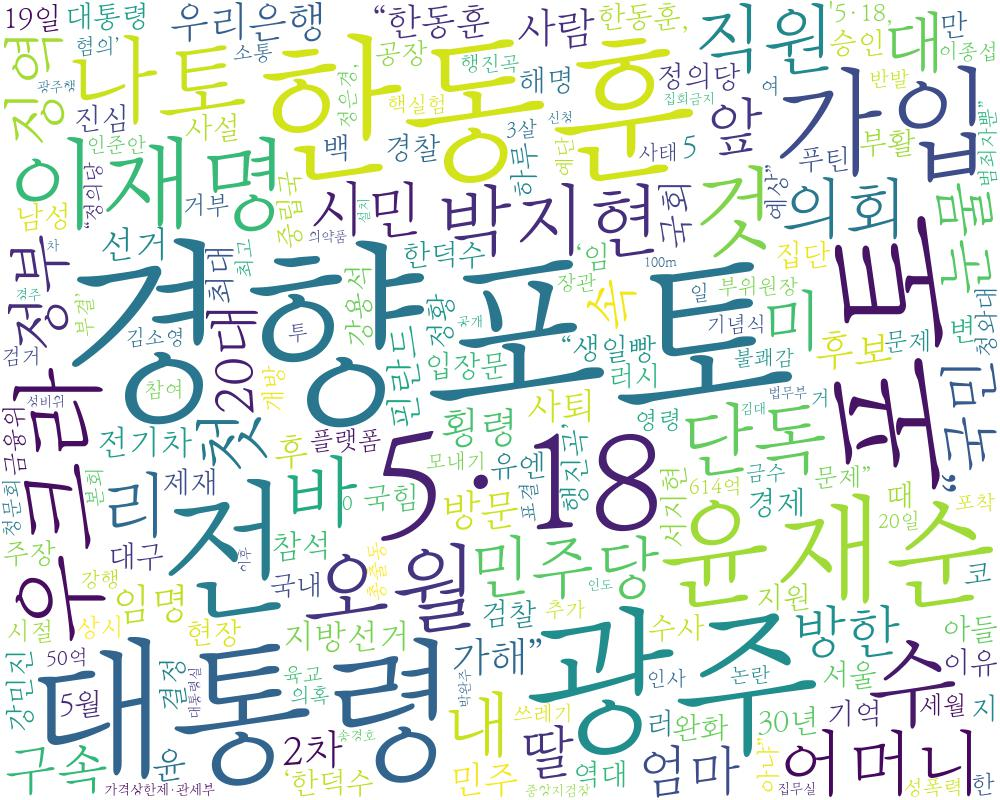
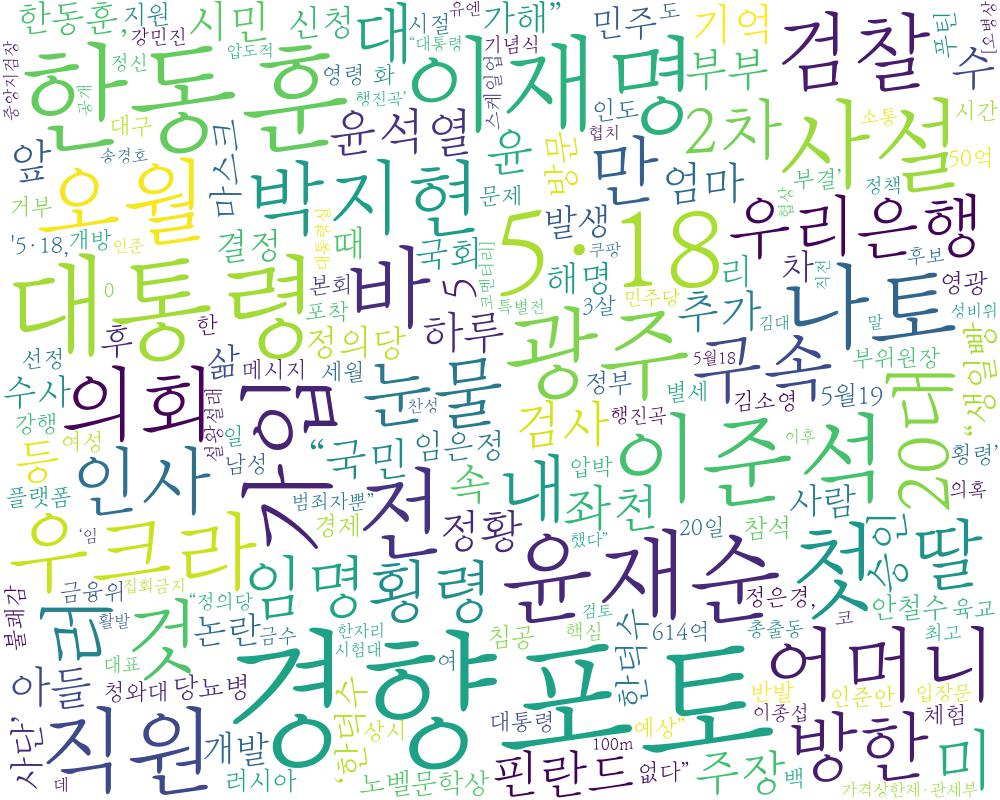
edit css & change db
edit css
django wordcloud update
changing database

diff --git a/frontend/src/App.js b/frontend/src/App.js
@@ -26,25 +26,44 @@ const App = () =>{
 
   return(
     <div className = 'App'>
-      <header>
-        <h1>News Crawler</h1>
-      </header>
-      <input
-        value = {startdate}
-        placeholder = "StartDate"
-        name = "startdate"
-        onChange = {changed}
-      ></input>
-      <input
-        value = {finishdate}
-        placeholder = "FinishDate"
-        name = "finishdate"
-        onChange = {changed}
-      ></input>
-      <br></br>
-      <button onClick = {clickHandler_crawl}>Crawl News</button>
-      <br></br>
-      <Board startdate={startdate} finishdate={finishdate} state={state}/>
+      <div class= "row1">
+        <div class = "col1">
+        <h1>📰News Crawler</h1>
+        <h2>📅StartDate와 📅FinishDate를 입력하면 
+          <br></br>그 기간동안 뉴스에서 자주 언급된 단어들과 
+          <br></br>뉴스 기사를 보여줍니다.
+        </h2>
+        </div>
+        <div class = "col2">
+          <h3 class="pb-3">Date Input</h3>
+          <div class="form-style">
+            <form>
+              <div class="form-group pb-3">
+                <input
+                  value = {startdate}
+                  placeholder = "Start Date : YYYYMMDD"
+                  name = "startdate"
+                  onChange = {changed}
+                ></input>
+              </div>
+              <div class="form-group pb-3">
+                <input
+                  value = {finishdate}
+                  placeholder = "Finish Date : YYYYMMDD"
+                  name = "finishdate"
+                  onChange = {changed}
+                ></input>
+              </div>
+              <div class = 'pb-2'>
+                <button type='button' class="w-btn w-btn-gra1" onClick = {clickHandler_crawl}>⛏Crawl News</button>
+              </div>
+            </form>
+          </div>
+        </div>
+      </div>
+      <div class="row2">
+        <Board startdate={startdate} finishdate={finishdate} state={state}/>
+      </div>
     </div>
   );
 };

diff --git a/frontend/src/App.css b/frontend/src/App.css
@@ -37,15 +37,96 @@
   }
 }
 
-@import url('https://fonts.googleapis.com/css2?family=Space+Mono&display=swap');
+@import url('https://fonts.googleapis.com/css2?family=Nanum+Myeongjo&display=swap');
 
-h1 {
-  color: #61dafb;
-  font-family : 'Space Mono', monospace;
-  font-style : bold;
-  font-size: large;
+body {
+  font-family: 'Nanum Myeongjo', serif;
+  background: #ffffff;
 }
 
-input {
-  margin : 3px
+.row1 {
+  margin-top : 5%;
+}
+
+.row2{
+  clear:both;
+}
+
+.col1 {
+  float:left;
+  margin-left:28%;
+}
+
+h2 {
+  font-weight:lighter;
+}
+
+.col2 {
+  margin-left:7%;
+  float:left;
+}
+
+.pb-3{
+  text-align:left;
+}
+
+.form-style input{
+  font-family: 'Nanum Myeongjo', serif;
+  font-size: 16px;
+  border: 0;
+  height: 50px;
+  width: 255px;
+  border-radius: 0;
+  border-bottom:1px solid #fafafa;
+  margin-bottom:1px;
+}
+
+.form-style input:focus{
+  font-family: 'Nanum Myeongjo', serif;
+  border-bottom: 1px solid #007bff;
+  box-shadow: none;
+  outline: 0;
+  background-color: #fafafa;
+}
+
+@import url("https://fonts.googleapis.com/css?family=Poppins:200,300,400,500,600,700,800,900&display=swap");
+
+button{
+  font-family: 'Nanum Myeongjo', serif;
+  font-size: 20px;
+  height: 40px;
+  width: 200px;
+  margin:20px;
+  text-align: center;
+  vertical-align: center;
+  padding: 100px;
+  background: whitesmoke;
+  display: table-cell;
+}
+
+.w-btn {
+  position: relative;
+  border: none;
+  display: inline-block;
+  padding: 5px 15px;
+  border-radius: 15px;
+  box-shadow: 0 15px 35px rgba(0, 0, 0, 0.2);
+  text-decoration: none;
+  font-weight: 300;
+  transition: 0.25s;
+}
+
+.w-btn:active {
+  transform: scale(1.5);
+}
+
+.w-btn:hover {
+  letter-spacing: 2px;
+  transform: scale(1.2);
+  cursor: pointer;
+}
+
+.w-btn-gra1 {
+  background: linear-gradient(-45deg, #33ccff 0%, #ff99cc 100%);
+  color: white;
 }

diff --git a/frontend/src/Board.js b/frontend/src/Board.js
@@ -19,12 +19,11 @@ const Board = ({startdate, finishdate, state}) => {
         (state)?(
             (result.length !== 0) ? (
                 <div className="Board">
-                    <p className="Board--content">startdate :{startdate}, finishdate: {finishdate}</p>
-                    <a>{result['0'].word1} : </a><a href = {result['0'].link1} className="Board--content">{result['0'].title1}</a><br></br>
-                    <a>{result['0'].word2} : </a><a href = {result['0'].link2} className="Board--content">{result['0'].title2}</a><br></br>
-                    <a>{result['0'].word3} : </a><a href = {result['0'].link3} className="Board--content">{result['0'].title3}</a><br></br>
+                    <label>📌{result['0'].word1} : </label><a href = {result['0'].link1} className="Board--content">{result['0'].title1}</a><br></br>
+                    <label>📌{result['0'].word2} : </label><a href = {result['0'].link2} className="Board--content">{result['0'].title2}</a><br></br>
+                    <label>📌{result['0'].word3} : </label><a href = {result['0'].link3} className="Board--content">{result['0'].title3}</a><br></br>
                 </div>
-            ) : (<p>Is Loading...</p>)
+            ) : (<p className='Loading'>📊 Is Loading...</p>)
         ) : (<br></br>)
     );
 };

diff --git a/frontend/src/Board.css b/frontend/src/Board.css
@@ -1,0 +1,21 @@
+@import url('https://fonts.googleapis.com/css2?family=Nanum+Myeongjo&display=swap');
+
+.Loading {
+    color: #000000;
+    font-family: 'Nanum Myeongjo', serif;
+    font-size: 120%;
+    margin : 2%;
+}
+
+label {
+    color: #000000;
+    font-family: 'Nanum Myeongjo', serif;
+    font-size : 20px;
+}
+
+.Board--content{
+    color: #000000;
+    font-family: 'Nanum Myeongjo', serif;
+    font-size : 20px;
+    font-weight: lighter;
+}

diff --git a/frontend/public/index.html b/frontend/public/index.html
@@ -2,7 +2,7 @@
 <html lang="en">
   <head>
     <meta charset="utf-8" />
-    <link rel="icon" href="%PUBLIC_URL%/favicon.ico" />
+    <link rel="icon" href="%PUBLIC_URL%/newspaper.ico" />
     <meta name="viewport" content="width=device-width, initial-scale=1" />
     <meta name="theme-color" content="#000000" />
     <meta

diff --git a/NewsCrawlingDjango/crawled_data/views.py b/NewsCrawlingDjango/crawled_data/views.py
@@ -152,8 +152,8 @@ class UserInputViewSet(viewsets.ModelViewSet):
         spwords.add('[단독]')
         spwords.add('포토')
         spwords.add('[포토]')
-        # wc = WordCloud(max_font_size=150, stopwords = spwords, background_color = 'white', font_path='./font/DX.ttf', width = 1000, height = 800).generate_from_frequencies(cloud_data)
-        # wc.to_file('cloud.jpg')
+        wc = WordCloud(max_font_size=150, stopwords = spwords, background_color = 'white', font_path='crawled_data/font/DX.ttf', width = 1000, height = 800).generate_from_frequencies(cloud_data)
+        wc.to_file('cloud.jpg')
 
         sorted_dict = sorted(cloud_data.items(), key = lambda item: item[1], reverse = True)
         word_to_find = [sorted_dict[0][0], sorted_dict[1][0], sorted_dict[2][0]]
@@ -169,7 +169,8 @@ class UserInputViewSet(viewsets.ModelViewSet):
             link2 = url_list[word_to_find[1]],
             word3 = word_to_find[2],
             title3 = title_list[word_to_find[2]],
-            link3 = url_list[word_to_find[2]]).save()
+            link3 = url_list[word_to_find[2]],
+            cloud = './cloud.jpg').save()
 
         serializer.save(startdate = input_start_date)
         serializer.save(finishdate = input_finish_date)

diff --git a/NewsCrawlingDjango/NewsCrawlingDjango/settings.py b/NewsCrawlingDjango/NewsCrawlingDjango/settings.py
@@ -103,9 +103,9 @@ DATABASES = {
         'ENGINE': 'django.db.backends.mysql',
         'NAME': 'newbie_project',
         'USER': 'root',
-        'PASSWORD': 'pwkyj0302!',
-        'HOST': '127.0.0.1',
-        'PORT': '3306',
+        'PASSWORD': 'tnfqkrtm',
+        'HOST': 'ssal.sparcs.org',
+        'PORT': '64534',
     }
 }
 
